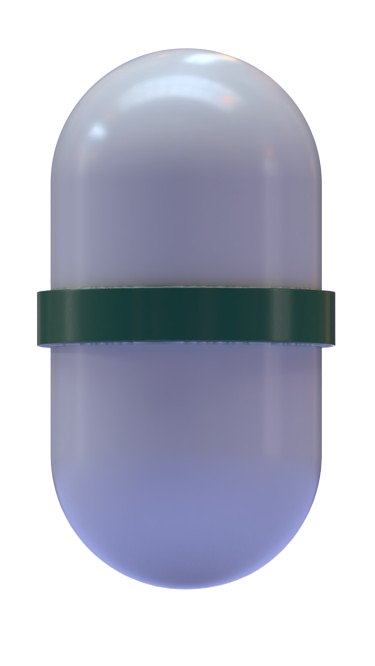
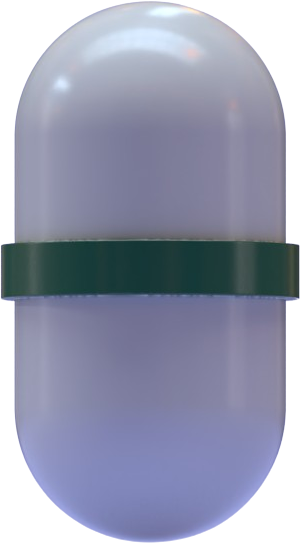
ajout 3d pill + parralax + maj style (more responsive) + adding const to store (screen Size)

diff --git a/frontend/src/view/Home.jsx b/frontend/src/view/Home.jsx
@@ -1,14 +1,23 @@
-import React from "react";
 import TutorialSwiper from "@/components/TutorialSwiper.jsx";
 import useStore from "@/store/store.js";
 import BubbleGlow from "@/components/BubbleGlow.jsx";
 import pill from "@/assets/img/pill.png"
+import Parallax from "parallax-js";
+import {useEffect, useState} from "react";
 function Home() {
     const t = useStore(state => state.translations);
+    const {screenSize} = useStore();
+    useEffect(() => {
+        const scene = document.getElementById("main_pill");
+            const parallax = new Parallax(scene);
+
+            return () => parallax.destroy();
+
+    }, []);
     return (
         <>
             <div className={`w-full flex flex-col flex-grow justify-center px-3 overflow-hidden`}>
-                <div className = {`grid md:grid-cols-[55%_45%]`}>
+                <div className={`grid md:grid-cols-[55%_45%]`}>
                     <div className={`pl-10 flex flex-col`}>
                         <span className={`pb-3`}>
                             <BubbleGlow/>
@@ -22,22 +31,27 @@ function Home() {
                         <span className={`flex flex-col gap-y-1 text-[16px} text-white`}>
                             <p>{t.main?.homeContent.contentTitle}</p>
                             <ul className={`pl-4 list-disc`}>
-                                {t.main?.homeContent.contentQuestion.map((item, index) => {return <li key={index}>{item}</li>})}
+                                {t.main?.homeContent.contentQuestion.map((item, index) => {
+                                    return <li key={index}>{item}</li>
+                                })}
                             </ul>
                             <p>{t.main?.homeContent.contentEnding}</p>
                         </span>
                     </div>
-                    <div className = {`flex justify-center align-middle`}>
-                        <img src={pill}  className = {`h-[400px] animate-glowSpinL `}  alt="pill"/>
+                    <div className={`flex justify-center items-center`}>
+                        <div id="main_pill">
+                            <img data-depth="1.62" src={screenSize > 850 ? pill : ""} className={`h-[380px] w-auto`} alt="pill"/>
+
+                        </div>
                     </div>
                 </div>
-                <span className = {`text-center`}>
+                        <span className={`text-center`}>
                     <TutorialSwiper titleButton={t.main?.analysisTitle}/>
                 </span>
-            </div>
-        </>
-    )
+                    </div>
+                </>
+                )
 
-}
+                }
 
 export default Home

diff --git a/frontend/src/components/NavBar.jsx b/frontend/src/components/NavBar.jsx
@@ -7,22 +7,15 @@ import { Star, Github  } from 'lucide-react';
 import {useEffect, useState} from "react";
 
 const NavBar = () => {
-    let { language, setLanguage } = useStore();
+    let { language, setLanguage, screenSize, setScreenSize } = useStore();
     const newLanguage = language === "en" ? "fr" : "en";
     const t = useStore(state => state.translations);
-    const [screenSize, setScreen] = useState(0);
     useEffect(() => {
         const updateScreenSize = () => {
-            setScreen(Math.round(window.innerWidth  * window.devicePixelRatio));
+            setScreenSize(Math.round(window.innerWidth  * window.devicePixelRatio));
         };
-
-        // Appeler initialement la fonction
         updateScreenSize();
-
-        // Ajoutez un `resize` event listener pour mettre à jour lorsque la fenêtre est redimensionnée
         window.addEventListener('resize', updateScreenSize);
-
-        // Nettoyer l'event listener lorsque le composant est démonté
         return () => window.removeEventListener('resize', updateScreenSize);
     }, []);
     return (

diff --git a/frontend/tailwind.config.js b/frontend/tailwind.config.js
@@ -38,11 +38,17 @@ module.exports = {
           '50%': { transform: 'translateY(0em) translateX(0.5em)' },
           '75%': { transform: 'translateY(0.5em) translateX(0em)' },
           '100%': { transform: 'translateY(0) translateX(0)', opacity: '1' },
+        },
+        "pill":{
+          '0%': { transform: 'translateY(0) translateX(0)', opacity: '1' },
+          '50%': { transform: 'translateY(0.5em) translateX(0em)' },
+          '100%': { transform: 'translateY(0em) translateX(0)', opacity: '1' },
         }
       },
       animation: {
         "glowSpinL":"glowSpinL 4s ease-in-out infinite",
-        "glowSpinR":"glowSpinR 4s ease-in-out infinite"
+        "glowSpinR":"glowSpinR 4s ease-in-out infinite",
+        "pill":"pill 2s ease-in-out infinite",
       },
     },
   },

diff --git a/frontend/src/components/ui/button.jsx b/frontend/src/components/ui/button.jsx
@@ -17,7 +17,7 @@ const buttonVariants = cva(
         secondary:
           "bg-slate-100 text-slate-900 hover:bg-slate-100/80 dark:bg-slate-800 dark:text-slate-50 dark:hover:bg-slate-800/80",
         ghost: "hover:bg-slate-100 hover:text-slate-900 dark:hover:bg-slate-800 dark:hover:text-slate-50",
-        default_blue: "bg-blue-500 text-slate-50 hover:bg-blue-500/90 dark:bg-slate-50 dark:text-slate-900 dark:hover:bg-slate-50/90",
+        default_blue: "shadow-lg bg-blue-500 text-slate-50 hover:bg-blue-500/90 dark:bg-slate-50 dark:text-slate-900 dark:hover:bg-slate-50/90",
       },
       size: {
         default: "h-10 px-4 py-2",

diff --git a/frontend/src/store/store.js b/frontend/src/store/store.js
@@ -17,6 +17,8 @@ const useStore = create((set, get) => ({
         });
     },
 
+    screenSize:0,
+    setScreenSize:(screenSize) => set({screenSize}),
     chartType: 'consumption',
     setChartType: (chartType) => set({ chartType }),
 
